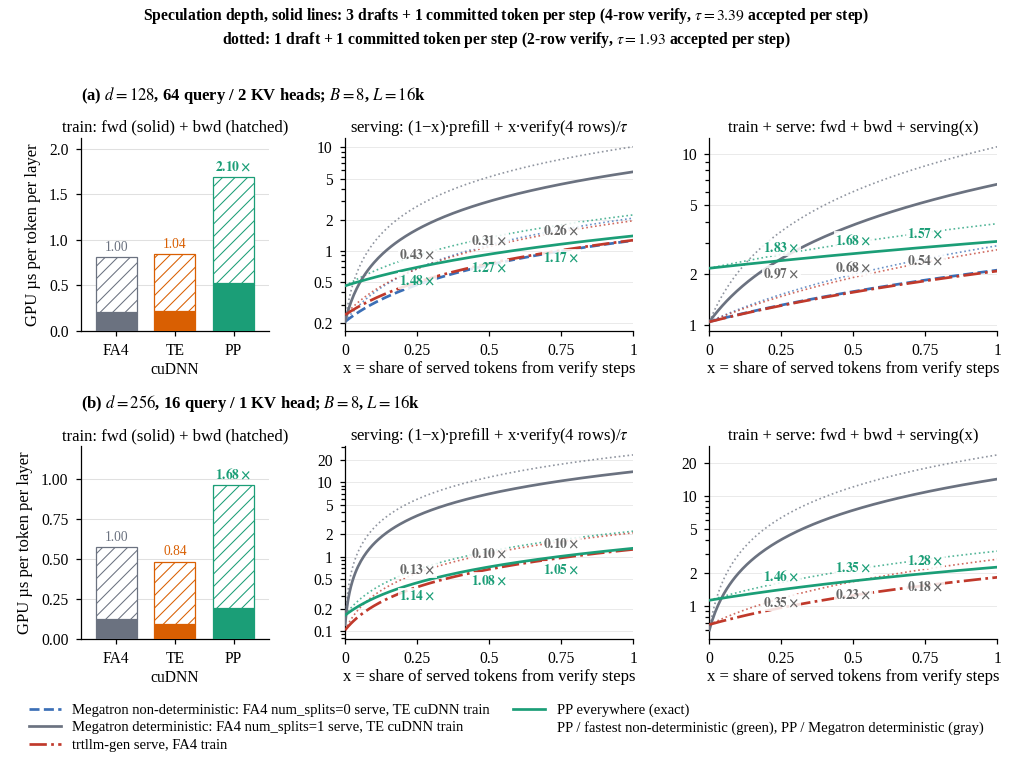
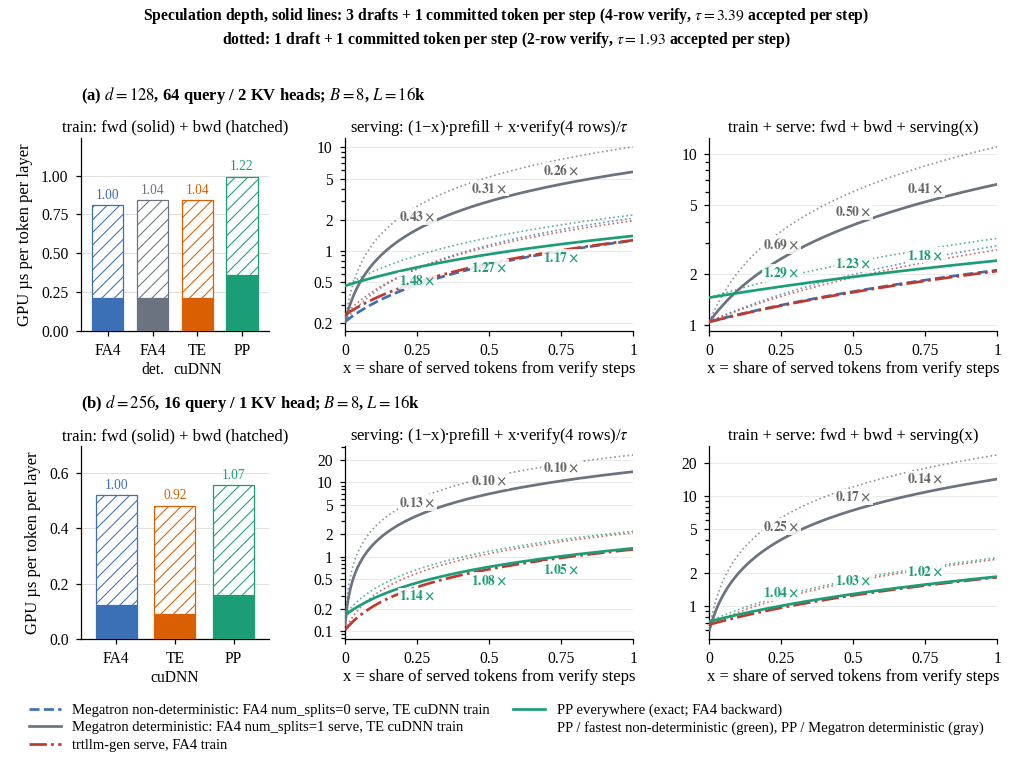
PP attention docs: figures with the FA4 backward PP ships, FA4 deterministic and default

diff --git a/docs/developer/determinism/pp_attention.md b/docs/developer/determinism/pp_attention.md
@@ -60,20 +60,26 @@ tokens that come from verify steps; `tau` is the number of tokens one verify ste
 (3.39 for a 4-row verify, solid; 1.93 for a 2-row verify, dotted). Right: training plus
 serving. Baselines: Megatron's default stack (FA4 `num_splits=0` to serve, TE cuDNN to
 train; bytes differ between phases), Megatron's deterministic stack (FA4 `num_splits=1` to
-serve, TE cuDNN to train) and trtllm-gen to serve with FA4 to train. Green ratios are PP over
-the fastest stack whose bytes differ; gray ratios are PP over the deterministic stack.*
+serve, TE cuDNN to train) and trtllm-gen to serve with FA4 to train. Training bars: FA4 with its
+default backward, FA4 with `deterministic=True`, TE cuDNN, and PP forward plus the FA4
+backward. Green ratios are PP over the fastest stack whose bytes differ; gray ratios are PP
+over the deterministic stack.*
 
-PP is slower than the fastest kernels in each single phase: its training step takes 2.10x
-(head dimension 128) and 1.68x (head dimension 256) the FA4 time. Its serving cost is
-1.05x-1.48x the fastest stack whose bytes differ. Against the deterministic stack, which is
-what keeps the bytes equal today, PP takes 0.10x-0.43x the serving cost and 0.18x-0.97x the
-training-plus-serving cost.
+PP trains with its forward plus the FA4 backward (deterministic at head dimension 128), so
+its training step takes 1.22x (head dimension 128) and 1.07x (head dimension 256) the FA4
+time at `B = 8`, `L = 16k`. Its serving cost is 1.05x-1.48x the fastest stack whose bytes
+differ, and its training-plus-serving cost 1.02x-1.29x. Against the deterministic stack,
+which is what keeps the bytes equal today, PP takes 0.10x-0.43x the serving cost and
+0.14x-0.69x the training-plus-serving cost.
 
 ![Prefill and training throughput](../../images/pp_attention/throughput.png)
 
 *Prefill (forward) and training forward+backward throughput at `B = 8` over context. FLOPs
 are `2 * B * L^2 * H_q * d` for the causal forward and 3.5x that for forward+backward. PP is
-shown at `G = 8` and `G = 16`.*
+shown at `G = 8` and `G = 16`; its training bars use the FA4 backward. Training shows FA4
+with the default (non-deterministic) backward and with `deterministic=True`; at head
+dimension 256 FA4 has one backward, which is deterministic, so the two bars are equal.
+Prefill shows FA4 once: `num_splits=1` and the default differ by under 2% at these shapes.*
 
 ## Backward
 
